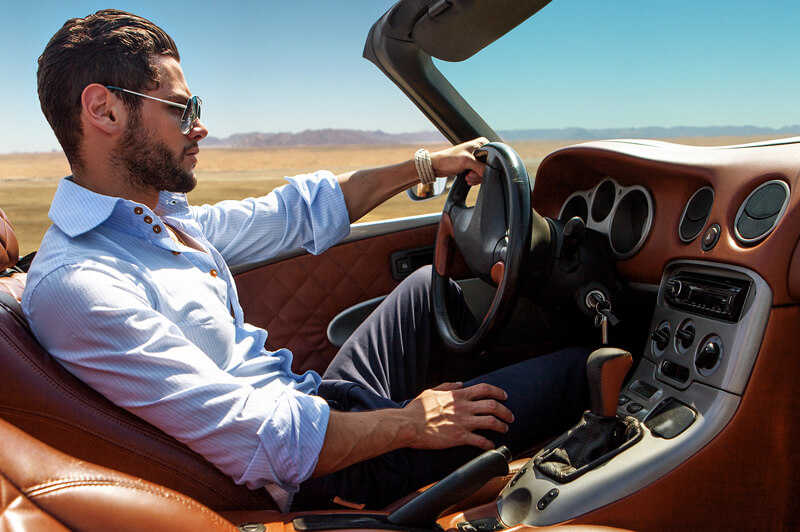
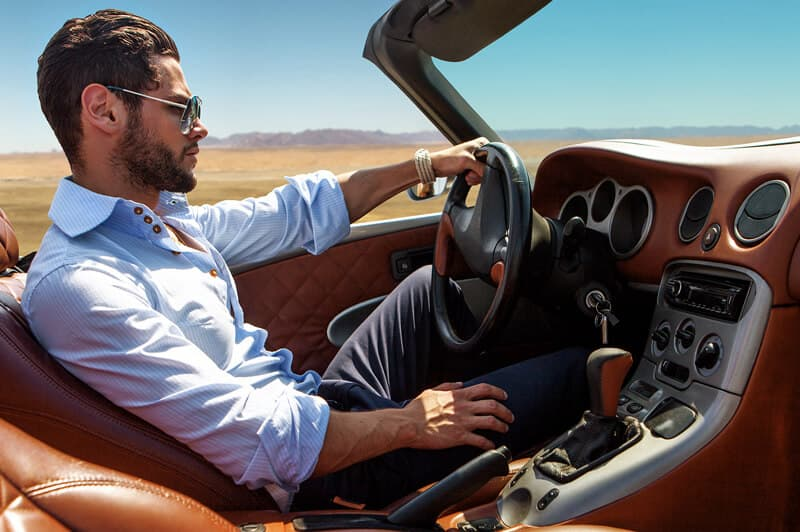
16595

diff --git a/front/src/routes/Home/index.js b/front/src/routes/Home/index.js
@@ -13,9 +13,13 @@ import bgImage from './images/bg.jpg';
 import bgImageRetina from './images/bg@2x.jpg';
 
 import menSunglassesImg from './images/men-sunglasses.jpg';
+import menSunglassesImgWebp from './images/men-sunglasses.webp';
 import womenSunglassesImg from './images/women-sunglasses.jpg';
+import womenSunglassesImgWebp from './images/women-sunglasses.webp';
 import menEyeglassesImg from './images/men-eyeglasses.jpg';
+import menEyeglassesImgWebp from './images/men-eyeglasses.webp';
 import womenEyeglassesImg from './images/women-eyeglasses.jpg';
+import womenEyeglassesImgWebp from './images/women-eyeglasses.webp';
 
 const VALUES = { br: <br /> };
 
@@ -58,6 +62,12 @@ export default () => {
             <Container>
                 <div className={styles.section}>
                     <div className={styles.sectionRow}>
+                        <div className={styles.imageContainer}>
+                            <picture>
+                                <source type="image/webp" srcSet={menSunglassesImgWebp} />
+                                <img src={menSunglassesImg} alt="" />
+                            </picture>
+                        </div>
                         <div className={styles.body}>
                             <div className={styles.title}>
                                 <FormattedMessage id="p_home_mensunglasses_title" />
@@ -71,13 +81,16 @@ export default () => {
                                 </Button>
                             </div>
                         </div>
-                        <div className={styles.imageContainer}>
-                            <img src={menSunglassesImg} alt="" />
-                        </div>
                     </div>
                 </div>
                 <div className={styles.section}>
                     <div className={styles.sectionRow}>
+                        <div className={styles.imageContainer}>
+                            <picture>
+                                <source type="image/webp" srcSet={womenSunglassesImgWebp} />
+                                <img src={womenSunglassesImg} alt="" />
+                            </picture>
+                        </div>
                         <div className={styles.body}>
                             <div className={styles.title}>
                                 <FormattedMessage id="p_home_womensunglasses_title" />
@@ -91,13 +104,16 @@ export default () => {
                                 </Button>
                             </div>
                         </div>
-                        <div className={styles.imageContainer}>
-                            <img src={womenSunglassesImg} alt="" />
-                        </div>
                     </div>
                 </div>
                 <div className={styles.section}>
                     <div className={styles.sectionRow}>
+                        <div className={styles.imageContainer}>
+                            <picture>
+                                <source type="image/webp" srcSet={menEyeglassesImgWebp} />
+                                <img src={menEyeglassesImg} alt="" />
+                            </picture>
+                        </div>
                         <div className={styles.body}>
                             <div className={styles.title}>
                                 <FormattedMessage id="p_home_meneyeglasses_title" />
@@ -111,13 +127,16 @@ export default () => {
                                 </Button>
                             </div>
                         </div>
-                        <div className={styles.imageContainer}>
-                            <img src={menEyeglassesImg} alt="" />
-                        </div>
                     </div>
                 </div>
                 <div className={styles.section}>
                     <div className={styles.sectionRow}>
+                        <div className={styles.imageContainer}>
+                            <picture>
+                                <source type="image/webp" srcSet={womenEyeglassesImgWebp} />
+                                <img src={womenEyeglassesImg} alt="" />
+                            </picture>
+                        </div>
                         <div className={styles.body}>
                             <div className={styles.title}>
                                 <FormattedMessage id="p_home_womeneyeglasses_title" />
@@ -130,9 +149,6 @@ export default () => {
                                     <FormattedMessage id="p_home_eyeglasses_button" />
                                 </Button>
                             </div>
-                        </div>
-                        <div className={styles.imageContainer}>
-                            <img src={womenEyeglassesImg} alt="" />
                         </div>
                     </div>
                 </div>

diff --git a/front/src/components/FooterMenu/styles.css b/front/src/components/FooterMenu/styles.css
@@ -17,7 +17,7 @@
 }
 
 .title {
-    margin-bottom: 21px;
+    margin-bottom: 15px;
     font-weight: var(--headings-font-weight);
     font-size: var(--font-size-base);
 
@@ -33,12 +33,11 @@
 }
 
 .item {
-    margin-bottom: 18px;
+    margin-bottom: 10px;
     padding: 0 9px;
 
     @media (--viewport-ipad) {
         width: 100%;
-        margin-bottom: 10px;
     }
 }
 

diff --git a/front/src/routes/Home/styles.css b/front/src/routes/Home/styles.css
@@ -59,10 +59,12 @@
     max-width: 100%;
     padding: 0 24px;
     text-align: center;
+    margin-bottom: 15px;
 
     @media (--viewport-ipad) {
         flex: 0 0 60%;
         max-width: 60%;
+        margin: 0;
     }
 }
 
